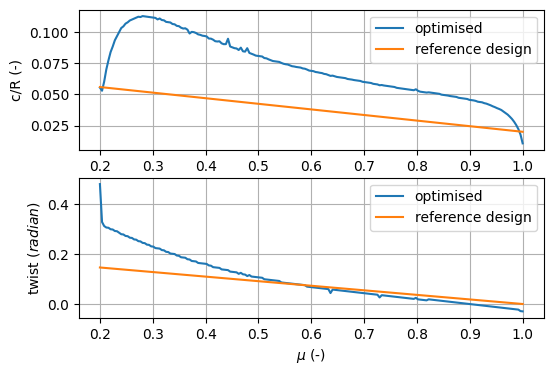
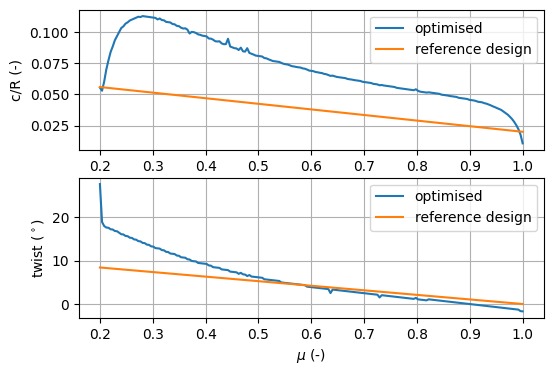
added different labels to task7

Changed region(s): [[0.0307, 0.528, 0.9837, 0.792], [0.0922, 0.792, 0.123, 0.8507]]

diff --git a/src/task7.py b/src/task7.py
@@ -58,10 +58,10 @@ def task7_plot():
     fig, axs = plt.subplots(2,1, figsize=(6,4))
 
     axs[0].plot(radii, chord, label="optimised") 
-    axs[1].plot(radii, twist, label="optimised") 
+    axs[1].plot(radii, np.rad2deg(twist), label="optimised") 
 
     axs[0].plot(radii, chord_list, label="reference design") 
-    axs[1].plot(radii, twist_list, label="reference design") 
+    axs[1].plot(radii, np.rad2deg(twist_list), label="reference design") 
     
     axs[0].grid()
     #axs[0].set_xlabel("$\mu$ (-)")
@@ -70,7 +70,7 @@ def task7_plot():
 
     axs[1].grid()
     axs[1].set_xlabel("$\mu$ (-)")
-    axs[1].set_ylabel("twist $(radian)$")
+    axs[1].set_ylabel("twist $(^\circ)$")
     axs[1].legend()
     plt.savefig("../results/optimum_chordtwist.png",bbox_inches='tight')
     plt.show()
